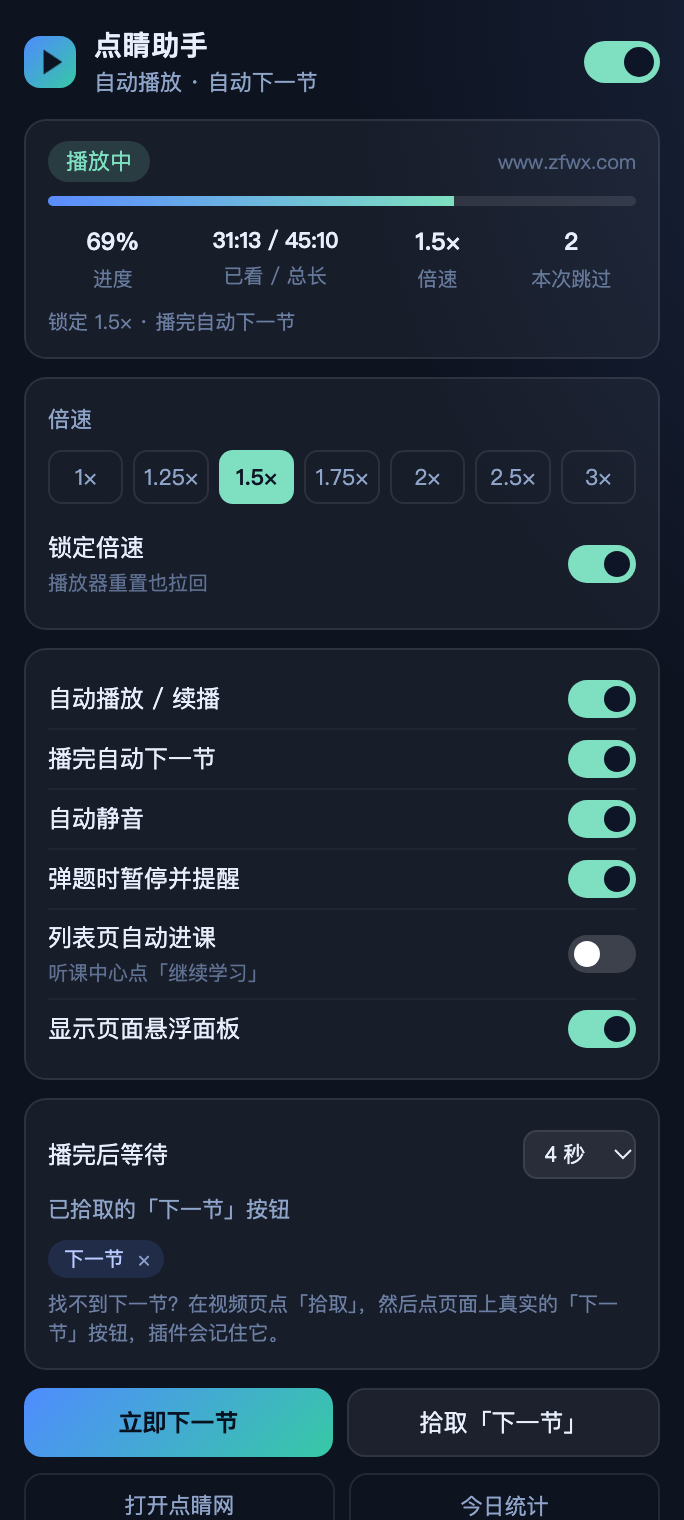
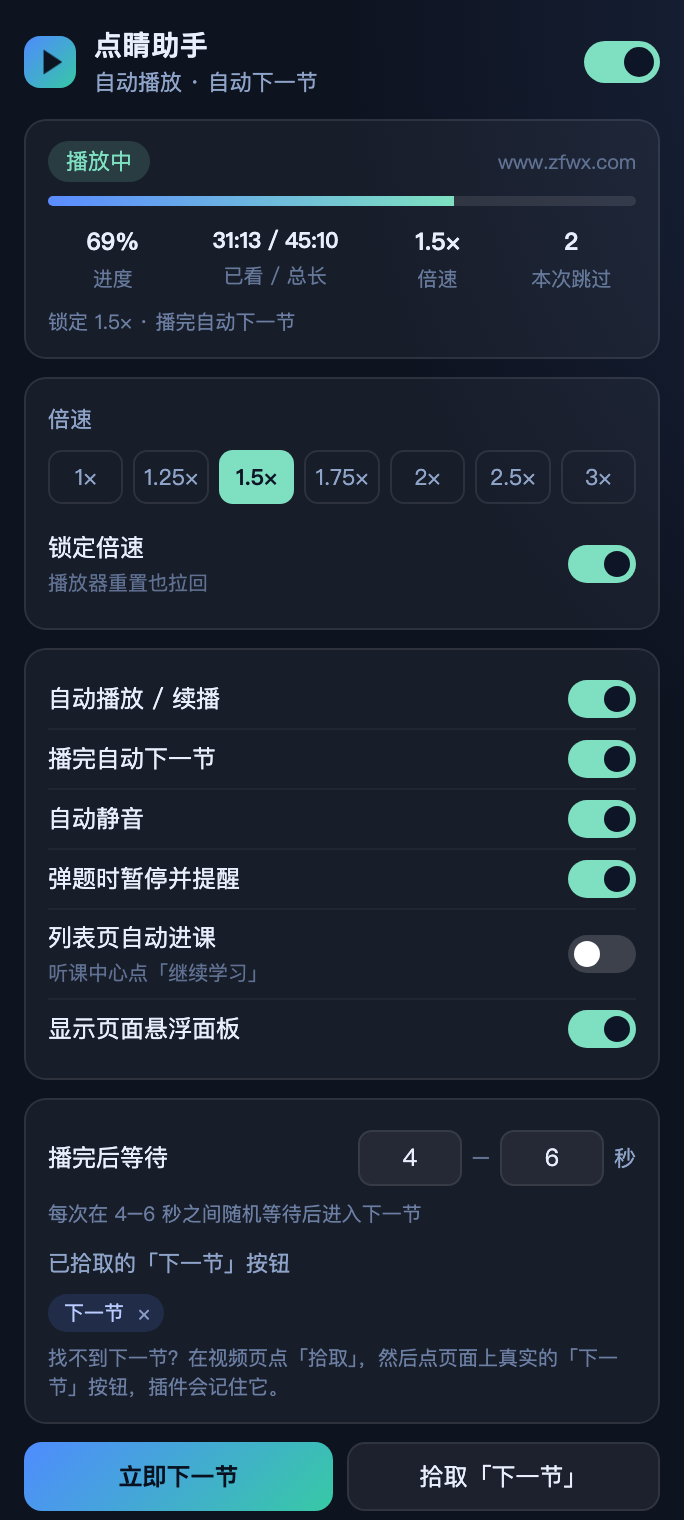
feat: 跳下一节改为可自定义的随机等待区间（v1.1.0）
- 新版设置 nextDelayMinMs / nextDelayMaxMs，播完后在区间内随机等待
- 弹窗「播完后等待」从固定下拉改为最短/最长秒数输入（0-300，可填小数）
- 旧版 nextDelayMs 自动迁移为 [值, 值+2s] 区间
- 越界/上下限颠倒自动夹紧与交换
- 测试扩到 35 项，含随机区间、迁移、夹紧用例

diff --git a/src/popup.js b/src/popup.js
@@ -8,7 +8,8 @@ const DEFAULTS = {
   rate: 1.5,
   forceRate: false,
   endThreshold: 1.5,
-  nextDelayMs: 4000,
+  nextDelayMinMs: 4000,
+  nextDelayMaxMs: 6000,
   autoList: false,
   pauseOnQuiz: true,
   beep: true,
@@ -46,6 +47,34 @@ function toast(text) {
   toast._t = setTimeout(() => { t.hidden = true; }, 1800);
 }
 
+function fmtSecText(ms) {
+  return String(Math.round(ms / 100) / 10).replace(/\.0$/, '');
+}
+
+/* 与 content.js 同口径：旧版固定延迟迁移成区间 */
+function mergeSettings(raw) {
+  raw = raw || {};
+  const out = Object.assign({}, DEFAULTS, raw);
+  if (raw.nextDelayMinMs == null && raw.nextDelayMaxMs == null && typeof raw.nextDelayMs === 'number') {
+    out.nextDelayMinMs = raw.nextDelayMs;
+    out.nextDelayMaxMs = raw.nextDelayMs + 2000;
+  }
+  return out;
+}
+
+/* 兼容旧版固定值 nextDelayMs */
+function delayRange() {
+  let lo = Number(settings.nextDelayMinMs);
+  let hi = Number(settings.nextDelayMaxMs);
+  if (!isFinite(lo)) lo = Number(settings.nextDelayMs);
+  if (!isFinite(lo)) lo = 4000;
+  if (!isFinite(hi)) hi = lo + 2000;
+  lo = Math.min(Math.max(lo, 0), 300000);
+  hi = Math.min(Math.max(hi, 0), 300000);
+  if (hi < lo) { const t = lo; lo = hi; hi = t; }
+  return [lo, hi];
+}
+
 async function save(patch) {
   settings = Object.assign({}, settings, patch);
   await chrome.storage.local.set({ djzk_settings: settings });
@@ -56,14 +85,12 @@ function renderControls() {
   $('#enabled').checked = !!settings.enabled;
   ['autoPlay', 'autoNext', 'autoMute', 'pauseOnQuiz', 'autoList', 'showPanel', 'forceRate']
     .forEach((k) => { $('#' + k).checked = !!settings[k]; });
-  $('#nextDelayMs').value = String(settings.nextDelayMs || 4000);
-  if (!$('#nextDelayMs').value) {
-    const opt = document.createElement('option');
-    opt.value = String(settings.nextDelayMs);
-    opt.textContent = Math.round(settings.nextDelayMs / 1000) + ' 秒';
-    $('#nextDelayMs').appendChild(opt);
-    $('#nextDelayMs').value = opt.value;
-  }
+  const [lo, hi] = delayRange();
+  $('#nextDelayMin').value = String(Math.round(lo / 100) / 10);
+  $('#nextDelayMax').value = String(Math.round(hi / 100) / 10);
+  $('#waitHint').textContent = lo === hi
+    ? '播完后等 ' + fmtSecText(lo) + ' 秒进入下一节'
+    : '每次在 ' + fmtSecText(lo) + '–' + fmtSecText(hi) + ' 秒之间随机等待后进入下一节';
 
   const box = $('#rates');
   box.innerHTML = '';
@@ -206,13 +233,29 @@ async function showStats() {
 async function init() {
   tab = await activeTab();
   const res = await chrome.storage.local.get({ djzk_settings: DEFAULTS });
-  settings = Object.assign({}, DEFAULTS, res.djzk_settings || {});
+  settings = mergeSettings(res.djzk_settings);
   renderControls();
 
   $('#enabled').addEventListener('change', (e) => save({ enabled: e.target.checked }));
   ['autoPlay', 'autoNext', 'autoMute', 'pauseOnQuiz', 'autoList', 'showPanel', 'forceRate']
     .forEach((k) => $('#' + k).addEventListener('change', (e) => save({ [k]: e.target.checked })));
-  $('#nextDelayMs').addEventListener('change', (e) => save({ nextDelayMs: Number(e.target.value) }));
+  const onDelay = (which) => {
+    const [curLo, curHi] = delayRange();
+    const read = (id, fallback) => {
+      const raw = $('#' + id).value.trim();
+      const v = Number(raw);
+      return raw === '' || !isFinite(v) ? fallback : Math.min(Math.max(v, 0), 300) * 1000;
+    };
+    let lo = read('nextDelayMin', curLo);
+    let hi = read('nextDelayMax', curHi);
+    if (lo > hi) {
+      if (which === 'min') hi = lo;
+      else lo = hi;
+    }
+    save({ nextDelayMinMs: lo, nextDelayMaxMs: hi });
+  };
+  $('#nextDelayMin').addEventListener('change', () => onDelay('min'));
+  $('#nextDelayMax').addEventListener('change', () => onDelay('max'));
   $('#nextBtn').addEventListener('click', () => cmd('next'));
   $('#pickBtn').addEventListener('click', () => cmd('pick'));
   $('#injectBtn').addEventListener('click', inject);
@@ -220,7 +263,7 @@ async function init() {
 
   chrome.storage.onChanged.addListener((changes, area) => {
     if (area === 'local' && changes.djzk_settings) {
-      settings = Object.assign({}, DEFAULTS, changes.djzk_settings.newValue || {});
+      settings = mergeSettings(changes.djzk_settings.newValue);
       renderControls();
     }
   });

diff --git a/src/content.js b/src/content.js
@@ -9,7 +9,7 @@
   if (window.__DJZK_LOADED__) return;
   window.__DJZK_LOADED__ = true;
 
-  const VERSION = '1.0.0';
+  const VERSION = '1.1.0';
   const HOST_OK = /(^|\.)zfwx\.com$/i.test(location.hostname) ||
     location.hostname === 'localhost' || window.__DJZK_FORCE__ === true;
   const IS_TOP = (() => { try { return window.top === window; } catch (e) { return false; } })();
@@ -23,7 +23,8 @@
     rate: 1.5,            // 倍速
     forceRate: false,     // 锁定倍速（播放器重置也拉不回来）
     endThreshold: 1.5,    // 距结尾多少秒算“播完”
-    nextDelayMs: 4000,    // 播完后延迟多少毫秒再去点下一节
+    nextDelayMinMs: 4000, // 播完后最短等待（随机区间下限）
+    nextDelayMaxMs: 6000, // 播完后最长等待（随机区间上限）
     autoList: false,      // 课程列表页自动点“继续学习”
     pauseOnQuiz: true,    // 检测到弹题时暂停并提醒
     beep: true,           // 弹题时响一声
@@ -45,6 +46,17 @@
   ].join(',');
 
   /* ------------------------- 运行时状态 ------------------------- */
+  /* 旧版只有固定延迟 nextDelayMs，迁移成默认 2 秒浮动区间 */
+  function mergeSettings(raw) {
+    raw = raw || {};
+    const out = Object.assign({}, DEFAULTS, raw);
+    if (raw.nextDelayMinMs == null && raw.nextDelayMaxMs == null && typeof raw.nextDelayMs === 'number') {
+      out.nextDelayMinMs = raw.nextDelayMs;
+      out.nextDelayMaxMs = raw.nextDelayMs + 2000;
+    }
+    return out;
+  }
+
   let S = Object.assign({}, DEFAULTS);
   let video = null;
   let videoSig = '';
@@ -299,10 +311,31 @@
     return true;
   }
 
+  function fmtSec(ms) {
+    const s = Math.round(ms / 100) / 10;
+    return String(s).replace(/\.0$/, '');
+  }
+
+  /* 播完后等待区间（毫秒），兼容旧版固定值 nextDelayMs */
+  function nextDelayRange() {
+    let lo = Number(S.nextDelayMinMs);
+    let hi = Number(S.nextDelayMaxMs);
+    if (!isFinite(lo)) lo = Number(S.nextDelayMs);
+    if (!isFinite(lo)) lo = 4000;
+    if (!isFinite(hi)) hi = lo + 2000;
+    lo = Math.min(Math.max(lo, 0), 180000);
+    hi = Math.min(Math.max(hi, 0), 180000);
+    if (hi < lo) { const t = lo; lo = hi; hi = t; }
+    return [lo, hi];
+  }
+
   function scheduleNext() {
     if (nextAt) return;
-    nextAt = now() + Math.max(500, S.nextDelayMs) + Math.random() * 1500;
-    msg = '本节已播完，' + Math.round((nextAt - now()) / 1000) + ' 秒后进入下一节';
+    const [lo, hi] = nextDelayRange();
+    const wait = lo + (hi > lo ? Math.random() * (hi - lo) : 0);
+    nextAt = now() + wait;
+    const span = lo === hi ? fmtSec(lo) + ' 秒' : fmtSec(lo) + '–' + fmtSec(hi) + ' 秒随机';
+    msg = '本节已播完，' + Math.max(0, Math.round(wait / 1000)) + ' 秒后进入下一节（' + span + '）';
   }
 
   /* ------------------------- 弹窗 / 弹题 ------------------------- */
@@ -740,12 +773,12 @@
     if (!HOST_OK) return;
     if (chromep()) {
       chrome.storage.local.get({ djzk_settings: DEFAULTS }, (res) => {
-        S = Object.assign({}, DEFAULTS, res.djzk_settings || {});
+        S = mergeSettings(res.djzk_settings);
         boot();
       });
       chrome.storage.onChanged.addListener((changes, area) => {
         if (area === 'local' && changes.djzk_settings) {
-          S = Object.assign({}, DEFAULTS, changes.djzk_settings.newValue || {});
+          S = mergeSettings(changes.djzk_settings.newValue);
           applyToDom();
           render();
         }
@@ -813,7 +846,7 @@
 
   /* 调试 / 自动化测试入口 */
   window.__DJZK_TEST__ = {
-    pickVideo, collectCandidates, doNext, cssPath, snapshot,
+    pickVideo, collectCandidates, doNext, cssPath, snapshot, delayRange: nextDelayRange,
     get settings() { return S; },
     get msg() { return msg; }
   };

diff --git a/src/popup.html b/src/popup.html
@@ -61,14 +61,14 @@
 
   <section class="card">
     <label class="line"><span>播完后等待</span>
-      <select id="nextDelayMs">
-        <option value="2000">2 秒</option>
-        <option value="4000">4 秒</option>
-        <option value="6000">6 秒</option>
-        <option value="10000">10 秒</option>
-        <option value="15000">15 秒</option>
-      </select>
+      <span class="wait">
+        <input type="number" id="nextDelayMin" min="0" max="300" step="0.5" aria-label="最短等待（秒）" />
+        <span class="dash">–</span>
+        <input type="number" id="nextDelayMax" min="0" max="300" step="0.5" aria-label="最长等待（秒）" />
+        <span class="u">秒</span>
+      </span>
     </label>
+    <div class="hint" id="waitHint">每次在区间内随机等待后再跳下一节</div>
     <div class="label">已拾取的「下一节」按钮</div>
     <div class="picked" id="picked"><span class="empty">还没有拾取</span></div>
     <div class="hint">找不到下一节？在视频页点「拾取」，然后点页面上真实的「下一节」按钮，插件会记住它。</div>
@@ -86,7 +86,7 @@
 
   <footer>
     <span id="footNote">仅辅助播放，请遵守点睛网学习规则</span>
-    <span id="ver">v1.0.0</span>
+    <span id="ver">v1.1.0</span>
   </footer>
 
   <div class="toast" id="toast" hidden></div>

diff --git a/src/popup.css b/src/popup.css
@@ -66,6 +66,20 @@ header {
 
 .hint { font-size: 10px; color: #6c7fa3; margin-top: 6px; line-height: 1.45; }
 
+/* ------- 随机等待 ------- */
+.line .wait { display: flex; flex-direction: row; align-items: center; gap: 5px; }
+#waitHint { margin: 2px 0 9px; }
+.wait input {
+  width: 52px; padding: 4px 5px; text-align: center;
+  background: rgba(255, 255, 255, .05); border: 1px solid var(--line);
+  border-radius: 7px; color: var(--txt); font: inherit;
+  font-variant-numeric: tabular-nums; outline: none; -moz-appearance: textfield;
+}
+.wait input:focus { border-color: var(--acc); background: rgba(126, 224, 192, .08); }
+.wait input::-webkit-outer-spin-button, .wait input::-webkit-inner-spin-button { -webkit-appearance: none; margin: 0; }
+.wait .u { font-size: 11px; color: var(--dim); }
+.wait .dash { font-size: 11px; color: #5f7091; }
+
 /* ------- 行 ------- */
 .line {
   display: flex; align-items: center; justify-content: space-between;

diff --git a/src/background.js b/src/background.js
@@ -11,7 +11,8 @@ const DEFAULTS = {
   rate: 1.5,
   forceRate: false,
   endThreshold: 1.5,
-  nextDelayMs: 4000,
+  nextDelayMinMs: 4000,
+  nextDelayMaxMs: 6000,
   autoList: false,
   pauseOnQuiz: true,
   beep: true,

diff --git a/tools/preview.py b/tools/preview.py
@@ -20,7 +20,7 @@ window.chrome = {
     local: {
       get: async (d) => {
         const settings = { enabled: true, autoPlay: true, autoNext: true, autoMute: true, rate: 1.5,
-          forceRate: true, endThreshold: 1.5, nextDelayMs: 4000, autoList: false, pauseOnQuiz: true,
+          forceRate: true, endThreshold: 1.5, nextDelayMinMs: 4000, nextDelayMaxMs: 6000, autoList: false, pauseOnQuiz: true,
           beep: true, showPanel: true, panelPos: null,
           customSelectors: [{ sel: '#nextBtn', text: '下一节', host: 'www.zfwx.com' }] };
         return { djzk_settings: settings, djzk_stats: { date: '2026-11-03', lessons: 6 } };
@@ -47,7 +47,7 @@ window.chrome = {
   storage: {
     local: {
       get: (d, cb) => cb({ djzk_settings: { enabled: true, autoPlay: true, autoNext: true, autoMute: true,
-        rate: 1.5, forceRate: true, endThreshold: 1.5, nextDelayMs: 4000, autoList: false,
+        rate: 1.5, forceRate: true, endThreshold: 1.5, nextDelayMinMs: 4000, nextDelayMaxMs: 6000, autoList: false,
         pauseOnQuiz: true, beep: false, showPanel: true, panelPos: null, customSelectors: [] } }),
       set: () => {}
     },

diff --git a/README.md b/README.md
@@ -23,7 +23,7 @@
 2. 页面右下角会出现悬浮面板，显示「播放中 / 进度 / 倍速 / 本次跳过」；
 3. 点工具栏图标打开弹窗，按需要调整倍速、播完等待时间、自动下一节等开关。
 
-默认行为：自动播放/续播 · 1.5 倍速 · 自动静音 · 播完等 4 秒进下一节 · 弹题暂停提醒 · 显示悬浮面板。
+默认行为：自动播放/续播 · 1.5 倍速 · 自动静音 · 播完在 4–6 秒内随机等待后进下一节 · 弹题暂停提醒 · 显示悬浮面板。
 
 ## 找不到「下一节」按钮？
 
@@ -48,12 +48,15 @@
 | 弹题时暂停并提醒 | 开 | 命中「答题/测验/考试/提交答案…」类弹层时暂停视频，避免把题跳过去 |
 | 列表页自动进课 | 关 | 在听课中心点「继续学习」进下一门课，容易误点，默认关闭 |
 | 显示页面悬浮面板 | 开 | 右下角面板，可拖动，位置会记住 |
-| 播完后等待 | 4 秒 | 2/4/6/10/15 秒，模拟正常观看节奏，避免切太快 |
+| 播完后等待（区间） | 4–6 秒 | 自填最短/最长秒数（0–300），每次在区间内随机取一个值；模拟正常观看节奏，避免固定间隔切太快 |
 
 ## 常见问题
 
 **装好后页面没有面板？**
 确认地址是 `www.zfwx.com` 下的页面；已打开的标签页需要刷新一次；或在弹窗里点「在当前页注入」手动注入。
+
+**为什么每次跳到下一节的时间都不一样？**
+「播完后等待」是一个区间：插件在最短/最长秒数之间随机取一个值（默认 4–6 秒），看起来更像真人正常听课。想要固定间隔，把两个数字填成一样即可（如都填 5）。
 
 **点了下一节但视频没换？**
 说明识别到的按钮不是真正的切换按钮：用「拾取」重新指定。面板状态里会提示重试。
@@ -77,7 +80,7 @@
 
 - `src/content.js` 注入每个 zfwx.com 页面：找面积最大/正在播放的 `<video>`，每 1 秒校正一次播放状态与倍速；
 - 识别「下一节」按钮：优先用你拾取的选择器，否则按内置文案（下一节/下一讲/下一课/继续学习…）扫描可见元素；
-- 视频 `ended` 或剩余时长 ≤1.5 秒时，等「播完等待」的秒数后点击下一节，视频没换会最多重试 3 次；
+- 视频 `ended` 或剩余时长 ≤1.5 秒时，在「播完等待」区间内随机等一会儿再点击下一节，视频没换会最多重试 3 次；
 - 弹层检测：命中测验类关键词 → 暂停 + 提示音；普通提示框（继续播放/确定）→ 自动点掉；
 - `src/background.js` 汇总各标签页/frame 状态、维护角标（ON）与今日统计，并把弹窗里的命令路由到真正有视频的 frame；
 - 悬浮面板用 Shadow DOM 隔离样式，可拖动，位置写入 `chrome.storage.local`。
@@ -108,7 +111,7 @@ npm run preview
 npm run icons
 ```
 
-测试覆盖：面板注入、自动播放/静音/倍速、锁定倍速回拉、静音恢复、「下一节」识别与自动点击、跳过节数上报、弹题暂停、设置联动、拾取优先级、后台状态汇总/命令路由/统计与清理（共 30 项断言）。
+测试覆盖：面板注入、自动播放/静音/倍速、锁定倍速回拉、静音恢复、「下一节」识别与自动点击、跳过节数上报、随机等待区间与旧设置迁移、弹题暂停、设置联动、拾取优先级、后台状态汇总/命令路由/统计与清理（共 35 项断言）。
 
 目录结构：
 
